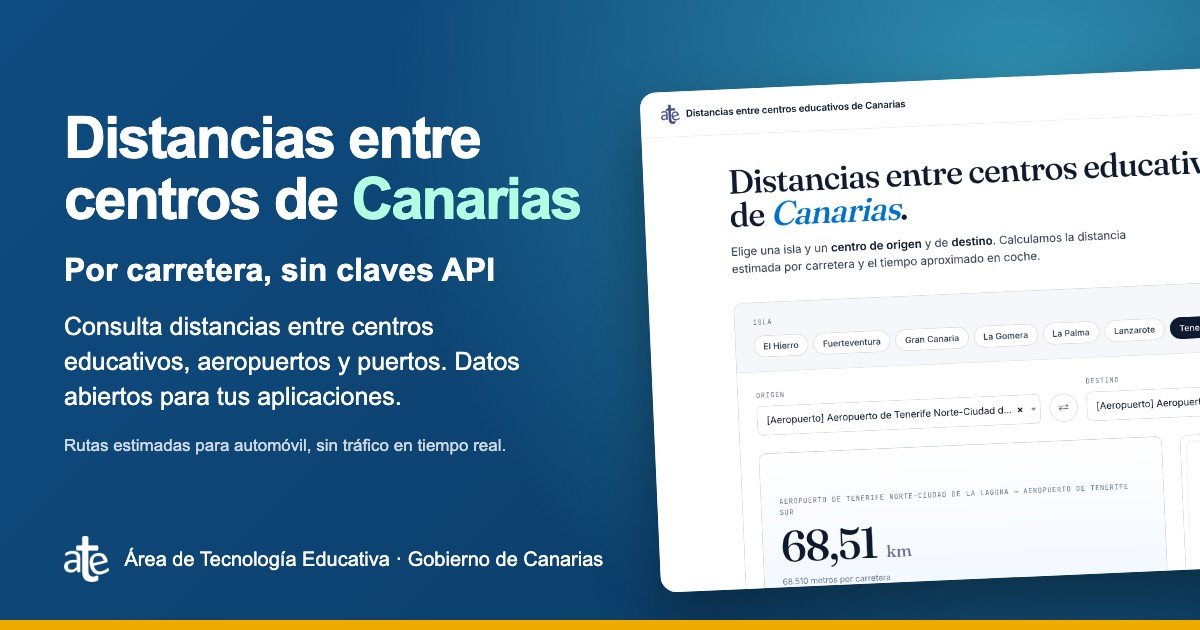
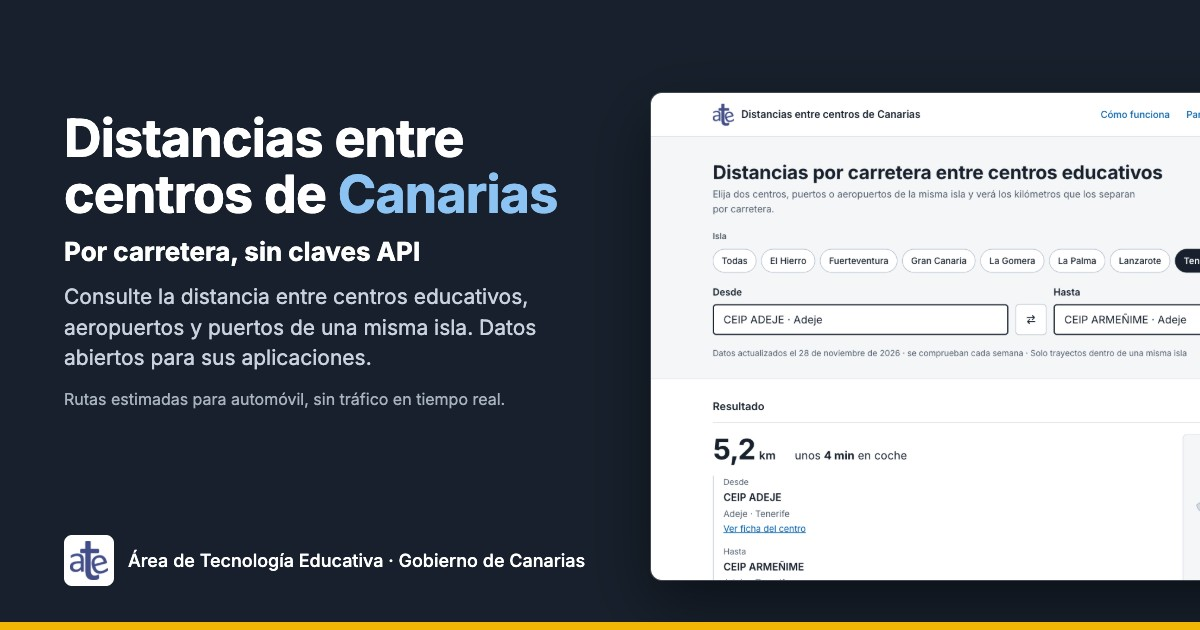
Refresh the Open Graph image with the redesigned site

diff --git a/www/index.html b/www/index.html
@@ -20,7 +20,7 @@
     />
     <meta
       property="og:image"
-      content="https://ateeducacion.github.io/distancias_centros_educativos_canarias/assets/og-image.jpg"
+      content="https://ateeducacion.github.io/distancias_centros_educativos_canarias/assets/og-image.jpg?v=2"
     />
     <meta property="og:image:type" content="image/jpeg" />
     <meta property="og:image:width" content="1200" />
@@ -37,7 +37,7 @@
     />
     <meta
       name="twitter:image"
-      content="https://ateeducacion.github.io/distancias_centros_educativos_canarias/assets/og-image.jpg"
+      content="https://ateeducacion.github.io/distancias_centros_educativos_canarias/assets/og-image.jpg?v=2"
     />
     <meta
       name="twitter:image:alt"
